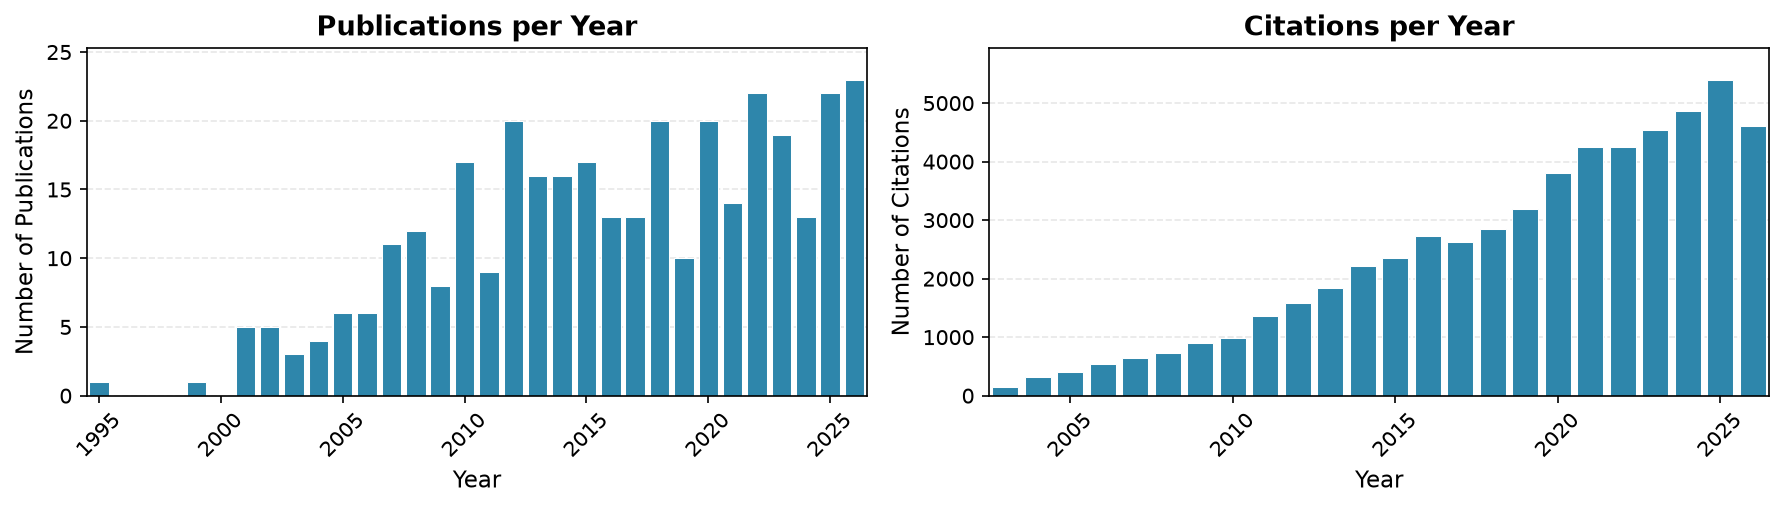
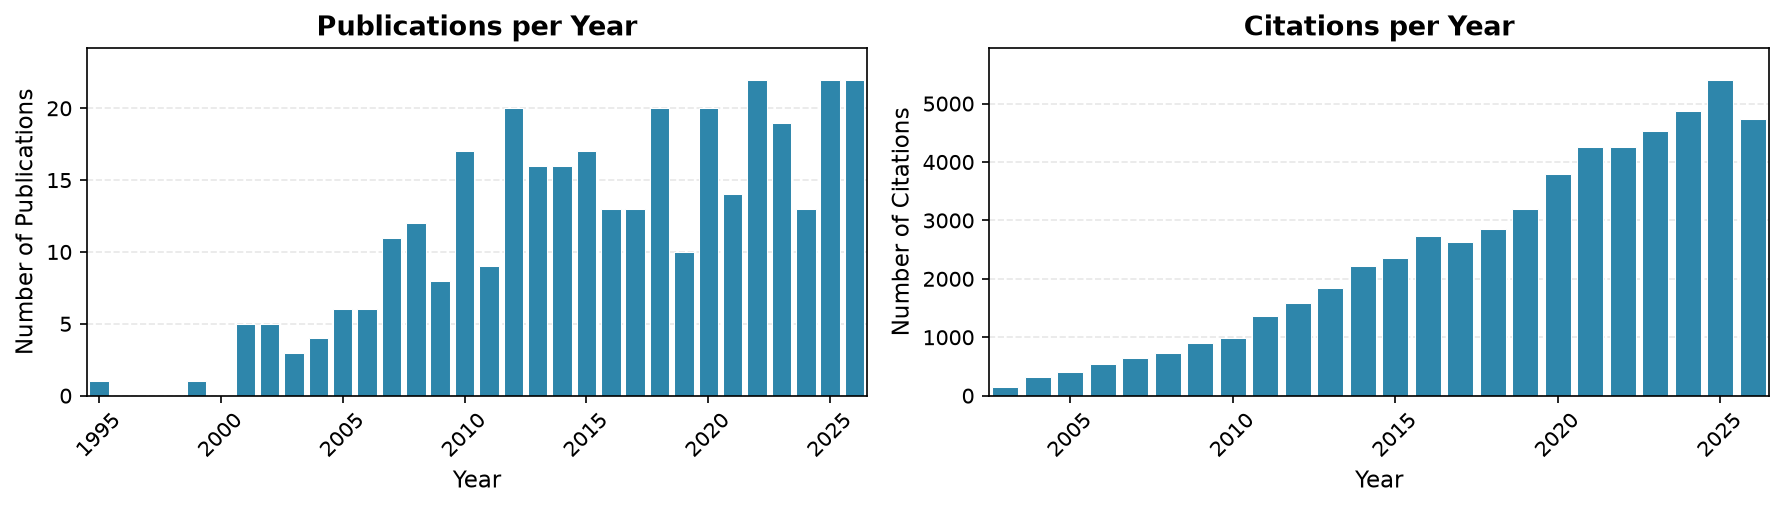
Update publication metrics and citation counts
Drops the bioRxiv preprint of the deep-learning peptide prioritization
paper, now superseded by its JPR publication.

diff --git a/pages/publications.md b/pages/publications.md
@@ -10,20 +10,20 @@ View our complete publication list on [Google Scholar](https://scholar.google.co
 
 ## Publication Metrics
 
-- **Total Publications**: 346 (330 peer-reviewed + 16 preprints)
-- **Total Citations**: 57,747 ([Google Scholar](https://scholar.google.com/citations?user=icweOB0AAAAJ&hl=en))
+- **Total Publications**: 345 (330 peer-reviewed + 15 preprints)
+- **Total Citations**: 57,887 ([Google Scholar](https://scholar.google.com/citations?user=icweOB0AAAAJ&hl=en))
 - **h-index**: 106
-- **Most Cited Paper**: "Skyline: an open source document editor for creating and analyzing targeted proteomics experiments" (5,589 citations)
+- **Most Cited Paper**: "Skyline: an open source document editor for creating and analyzing targeted proteomics experiments" (5,600 citations)
 
 ![Publication and Citation Metrics](../assets/images/publication-metrics.png)
 
-*Last updated: October 25, 2026 — 346 publications*
+*Last updated: November 02, 2026 — 345 publications*
 
 ## Publications by Year
 
 <div class="publications-container">
 <div class="year-navigation">
-<button class="year-button active" onclick="showYear(event, '2026')">2026 (23)</button>
+<button class="year-button active" onclick="showYear(event, '2026')">2026 (22)</button>
 <button class="year-button" onclick="showYear(event, '2025')">2025 (22)</button>
 <button class="year-button" onclick="showYear(event, '2024')">2024 (13)</button>
 <button class="year-button" onclick="showYear(event, '2023')">2023 (19)</button>
@@ -102,11 +102,6 @@ Hsu C, Heil LR, Wen B, McAlister G, Merrihew G, Remes PM, Plubell DL, Melani R, 
 Nguyen R, Rangel G, Liu X, Santoso RA, Bantwal A, Ross DH, Seguin RP, Liem J, Lin YS, Pratt B, MacLean BX, MacCoss MJ, Xu L
 *Environmental science & technology* 2026 Jun;60(24):17314-17327
 <a href="https://pubmed.ncbi.nlm.nih.gov/42262507/">PubMed<span class="visually-hidden"> for &#8220;ToxBase: A Multidimensional ToxCast Reference Database for High-Throughput Human Exposome Analysis&#8221;</span></a> | <a href="https://doi.org/10.1021/acs.est.5c18068">DOI<span class="visually-hidden"> for &#8220;ToxBase: A Multidimensional ToxCast Reference Database for High-Throughput Human Exposome Analysis&#8221;</span></a>
-
-**Prioritizing peptides for targeted mass spectrometry experiments using deep learning**
-Sonthalia S, Dasgupta P, Hsu C, Wen B, MacCoss MJ, Noble WS
-*bioRxiv : the preprint server for biology* 2026 May
-<a href="https://pubmed.ncbi.nlm.nih.gov/42244555/">PubMed<span class="visually-hidden"> for &#8220;Prioritizing peptides for targeted mass spectrometry experiments using deep learning&#8221;</span></a> | <a href="https://doi.org/10.64898/2026.05.21.727053">DOI<span class="visually-hidden"> for &#8220;Prioritizing peptides for targeted mass spectrometry experiments using deep learning&#8221;</span></a>
 
 **A quantitative proteomics dataset for assessment and prediction of low dose X-ray radiation exposure in mice**
 Zelter A, Riffle M, Merrihew GE, Mutawe B, Shulman N, Sanders JA, Noble WS, Johnson Erickson DP, Morimoto A, Shaver BA, Steins TN, Cao N, Ford EC, Rudnick PA, Chelsky D, Wan KH, Inman JL, Chang H, Snijders AM, Mao JH, Celniker SE, De Chant J, Obst-Huebl L, Nakamura K, Wu CC, MacCoss MJ

diff --git a/pages/resources.md b/pages/resources.md
@@ -91,7 +91,7 @@ Example publications describing the Stellar from the MacCoss lab include:
 - **External Tools**: Skyline has an external tool framework. We have a [tool store](http://skyline.ms/tools.url) with 20 tools currently available.
 - **Source Code** is available as part of the [Proteowizard project](https://github.com/ProteoWizard/pwiz).
 - **Original Publication** MacLean et al, [Skyline: an open source document editor for creating and analyzing targeted proteomics experiments](https://academic.oup.com/bioinformatics/article/26/7/966/212410), *Bioinformatics* 2010
-- **Cited:** 5,589 times
+- **Cited:** 5,600 times
 
 ### ![Proteowizard](../assets/images/logos/proteowizard-logo.jpg "Proteowizard")
 **Widely used software tools and libraries for mass spectrometry data analysis.**
@@ -99,7 +99,7 @@ Example publications describing the Stellar from the MacCoss lab include:
 - **Download and Documentation:** [https://proteowizard.sourceforge.io/](https://proteowizard.sourceforge.io/)
 - **Source Code:** Available on [Github](https://github.com/ProteoWizard/pwiz) and licensed under Apache 2.0.
 - **Original Publication:** Chambers et al, [A cross-platform toolkit for mass spectrometry and proteomics](https://www.nature.com/articles/nbt.2377), *Nature Biotechnology* 2012
-- **Cited:** 4,969 times
+- **Cited:** 4,989 times
 
 ### ![Panorama](../assets/images/logos/panorama_logo_h_onwhite_border.png "Panorama")
 **Web-based repository for Skyline documents and colaboration**
